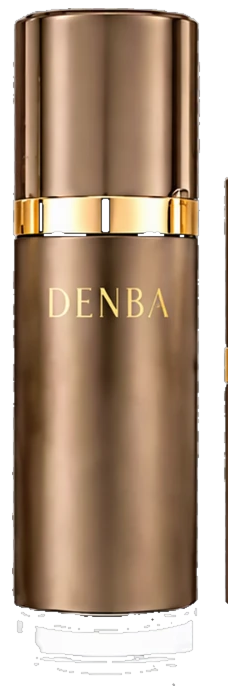
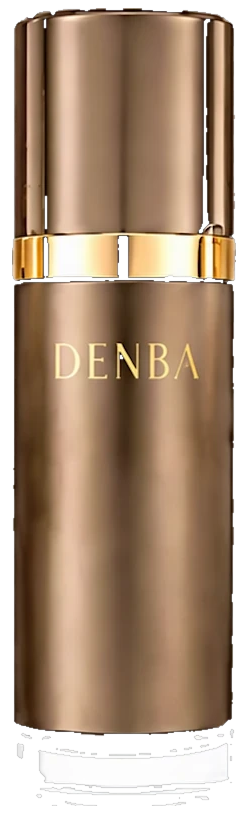
商品画像を新しい高精細4本ライン(蓋付き)に差し替え

diff --git a/index.html b/index.html
@@ -319,7 +319,7 @@
 
   <div class="line-grid">
     <a href="lotion.html" class="product-card">
-      <div class="product-img"><img src="images/bottle-lotion.png?v5" alt="ウォーターリバイタル ローション" loading="lazy"></div>
+      <div class="product-img"><img src="images/bottle-lotion.png?v6" alt="ウォーターリバイタル ローション" loading="lazy"></div>
       <div class="product-info">
         <div class="product-name" data-i18n="p1_name">ウォーターリバイタル ローション</div>
         <div class="product-type" data-i18n="p1_type">化粧水</div>
@@ -327,7 +327,7 @@
       </div>
     </a>
     <a href="emulsion.html" class="product-card">
-      <div class="product-img"><img src="images/bottle-emulsion.png?v5" alt="ハリ弾力ケア エマルジョン" loading="lazy"></div>
+      <div class="product-img"><img src="images/bottle-emulsion.png?v6" alt="ハリ弾力ケア エマルジョン" loading="lazy"></div>
       <div class="product-info">
         <div class="product-name" data-i18n="p2_name">ハリ弾力ケア エマルジョン</div>
         <div class="product-type" data-i18n="p2_type">乳液</div>
@@ -335,7 +335,7 @@
       </div>
     </a>
     <a href="cream.html" class="product-card">
-      <div class="product-img"><img src="images/bottle-cream.png?v5" alt="ハリ弾力ケア クリーム" loading="lazy"></div>
+      <div class="product-img"><img src="images/bottle-cream.png?v6" alt="ハリ弾力ケア クリーム" loading="lazy"></div>
       <div class="product-info">
         <div class="product-name" data-i18n="p3_name">ハリ弾力ケア クリーム</div>
         <div class="product-type" data-i18n="p3_type">クリーム</div>
@@ -343,7 +343,7 @@
       </div>
     </a>
     <a href="serum.html" class="product-card">
-      <div class="product-img"><img src="images/bottle-serum.png?v5" alt="マルチディメンション エイジングケア セラム" loading="lazy"></div>
+      <div class="product-img"><img src="images/bottle-serum.png?v6" alt="マルチディメンション エイジングケア セラム" loading="lazy"></div>
       <div class="product-info">
         <div class="product-name" data-i18n="p4_name">マルチディメンション エイジングケア セラム</div>
         <div class="product-type" data-i18n="p4_type">美容液</div>

diff --git a/products.html b/products.html
@@ -599,7 +599,7 @@
 <!-- LINEUP INDEX -->
 <div class="lineup">
   <a class="lineup-item" href="lotion.html">
-    <img class="lineup-img" src="images/bottle-lotion.png?v5" alt="ウォーターリバイタル ローション" loading="lazy">
+    <img class="lineup-img" src="images/bottle-lotion.png?v6" alt="ウォーターリバイタル ローション" loading="lazy">
     <span class="lineup-num">No. 01</span>
     <span class="lineup-name" data-i18n="p1_name">Water Revital<br>Lotion</span>
     <span class="lineup-jp" data-i18n="p1_type">化粧水</span>
@@ -607,7 +607,7 @@
     <span class="lineup-arrow">→</span>
   </a>
   <a class="lineup-item" href="emulsion.html">
-    <img class="lineup-img" src="images/bottle-emulsion.png?v5" alt="ハリ弾力ケア エマルジョン" loading="lazy">
+    <img class="lineup-img" src="images/bottle-emulsion.png?v6" alt="ハリ弾力ケア エマルジョン" loading="lazy">
     <span class="lineup-num">No. 02</span>
     <span class="lineup-name" data-i18n="p2_name">Firm & Glow<br>Emulsion</span>
     <span class="lineup-jp" data-i18n="p2_type">乳液</span>
@@ -615,7 +615,7 @@
     <span class="lineup-arrow">→</span>
   </a>
   <a class="lineup-item" href="cream.html">
-    <img class="lineup-img" src="images/bottle-cream.png?v5" alt="ハリ弾力ケア クリーム" loading="lazy">
+    <img class="lineup-img" src="images/bottle-cream.png?v6" alt="ハリ弾力ケア クリーム" loading="lazy">
     <span class="lineup-num">No. 03</span>
     <span class="lineup-name" data-i18n="p3_name">Firm &amp; Care<br>Cream</span>
     <span class="lineup-jp" data-i18n="p3_type">クリーム</span>
@@ -623,7 +623,7 @@
     <span class="lineup-arrow">→</span>
   </a>
   <a class="lineup-item" href="serum.html">
-    <img class="lineup-img" src="images/bottle-serum.png?v5" alt="マルチディメンション エイジングケア セラム" loading="lazy">
+    <img class="lineup-img" src="images/bottle-serum.png?v6" alt="マルチディメンション エイジングケア セラム" loading="lazy">
     <span class="lineup-num">No. 04</span>
     <span class="lineup-name" data-i18n="p4_name">Multi-Dimension<br>Aging Care Serum</span>
     <span class="lineup-jp" data-i18n="p4_type">美容液</span>

diff --git a/lotion.html b/lotion.html
@@ -611,7 +611,7 @@
            <img src="images/product-lotion.jpg" alt="Water Revital Lotion"
                 style="width:100%;height:100%;object-fit:cover;position:absolute;inset:0;">
       -->
-      <img src="images/bottle-lotion.png?v5" alt="ウォーターリバイタル ローション"
+      <img src="images/bottle-lotion.png?v6" alt="ウォーターリバイタル ローション"
            style="max-height:76%; max-width:58%; object-fit:contain; filter:drop-shadow(0 26px 40px rgba(120,92,42,0.28));">
 
     </div>

diff --git a/serum.html b/serum.html
@@ -607,7 +607,7 @@
 
   <div class="product-body">
     <div class="product-image-zone img-serum">
-      <img src="images/bottle-serum.png?v5" alt="マルチディメンション エイジングケア セラム"
+      <img src="images/bottle-serum.png?v6" alt="マルチディメンション エイジングケア セラム"
            style="max-height:74%; max-width:56%; object-fit:contain; filter:drop-shadow(0 26px 44px rgba(0,0,0,0.5));">
     </div>
 

diff --git a/emulsion.html b/emulsion.html
@@ -607,7 +607,7 @@
 
   <div class="product-body">
     <div class="product-image-zone img-emulsion">
-      <img src="images/bottle-emulsion.png?v5" alt="ハリ弾力ケア エマルジョン"
+      <img src="images/bottle-emulsion.png?v6" alt="ハリ弾力ケア エマルジョン"
            style="max-height:76%; max-width:58%; object-fit:contain; filter:drop-shadow(0 26px 40px rgba(120,92,42,0.28));">
     </div>
 

diff --git a/cream.html b/cream.html
@@ -607,7 +607,7 @@
 
   <div class="product-body">
     <div class="product-image-zone img-cream">
-      <img src="images/bottle-cream.png?v5" alt="ハリ弾力ケア クリーム"
+      <img src="images/bottle-cream.png?v6" alt="ハリ弾力ケア クリーム"
            style="max-height:70%; max-width:60%; object-fit:contain; filter:drop-shadow(0 26px 40px rgba(120,92,42,0.28));">
     </div>
 
